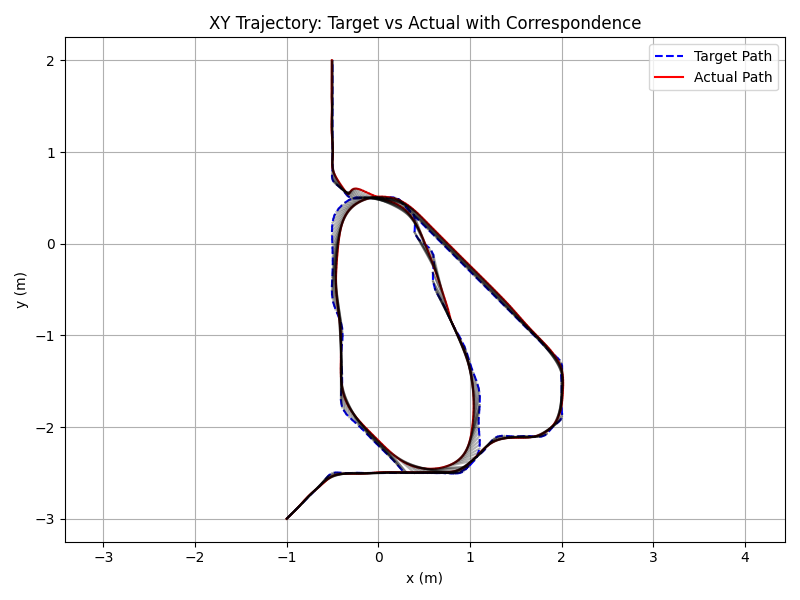
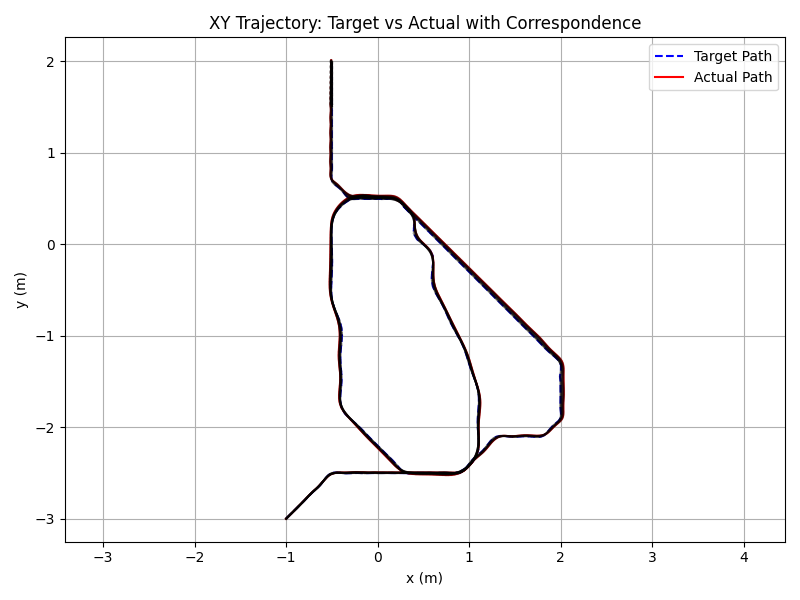
60s banker run

diff --git a/aer-course-project/edit_this.py b/aer-course-project/edit_this.py
@@ -49,7 +49,7 @@ except ImportError:
     # PyTest import.
     from . import example_custom_utils as ecu
 
-DURATION = 20
+DURATION = 60
 with open("log.txt", "w") as f:
     pass
 
